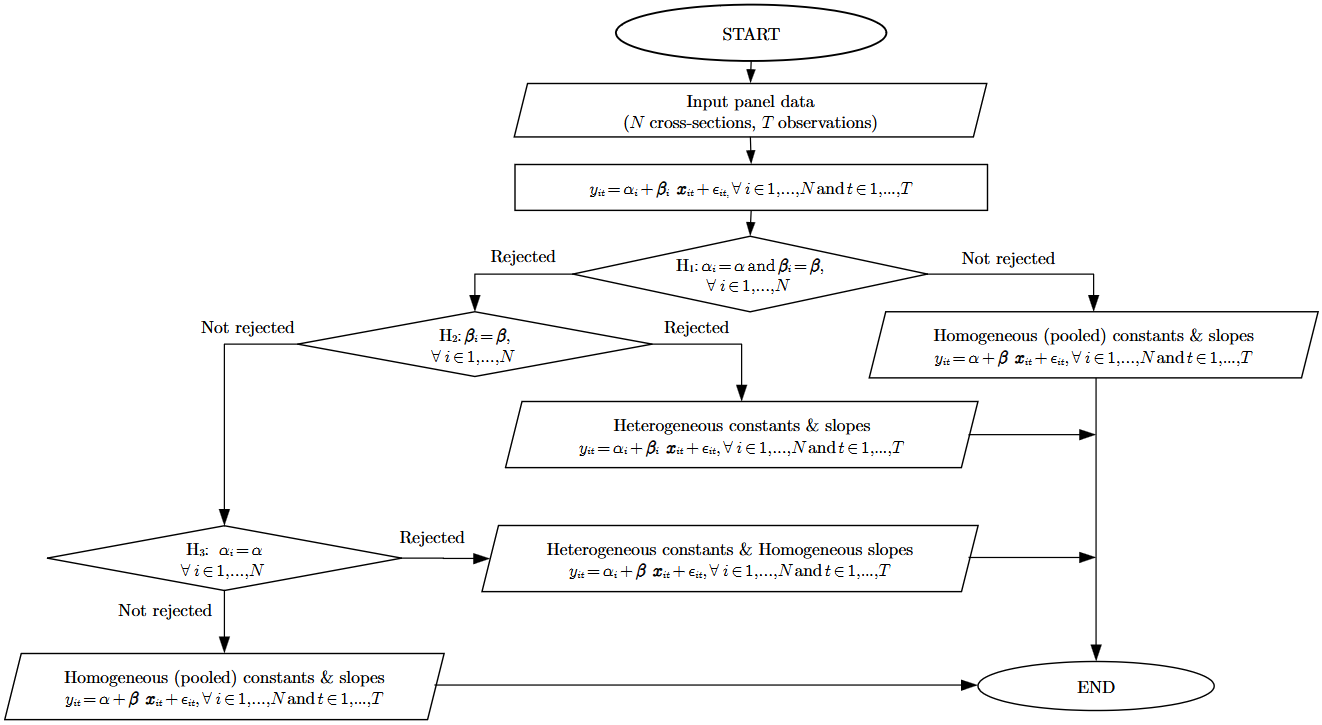
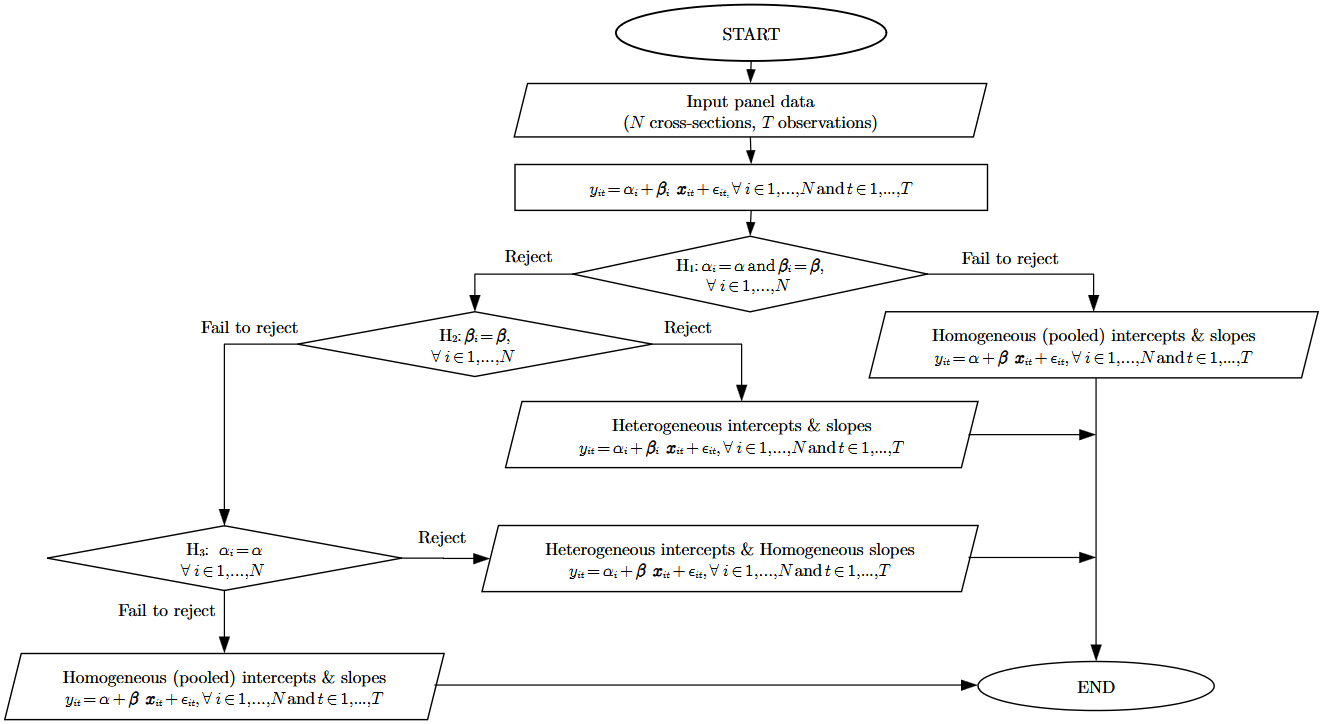
Update text

diff --git a/docs/index.html b/docs/index.html
@@ -46,8 +46,8 @@
 <div class="row">
   <main id="main" class="col-md-9">
 <div class="section level1">
-<div class="page-header"><h1 id="hsiao-poolability-test-1986-in-r">
-<strong>Hsiao Poolability test (<a href="#ref-hsiao1986">1986</a>) in R</strong><a class="anchor" aria-label="anchor" href="#hsiao-poolability-test-1986-in-r"></a>
+<div class="page-header"><h1 id="hsiao-poolability-test-19862022-in-r">
+<strong>Hsiao Poolability test (<a href="#ref-hsiao1986">1986</a>;<a href="#ref-hsiao2022">2022</a>) in R</strong><a class="anchor" aria-label="anchor" href="#hsiao-poolability-test-19862022-in-r"></a>
 </h1></div>
 <div class="section level2">
 <h2 id="install">
@@ -75,11 +75,11 @@ class="uri">10.32614/CRAN.package.corbouli</a></p>
 <h2 id="hsiao-poolability-test">
 <strong>Hsiao Poolability test</strong><a class="anchor" aria-label="anchor" href="#hsiao-poolability-test"></a>
 </h2>
-<p>The Hsiao poolability/homogeneity test (Hsiao, <a href="#ref-hsiao1986">1986</a>; <a href="#ref-hsiao2022">2022</a>) for panel data is used to determine the homogeneity of coefficients across individuals in panel data. The test is comprised from three consecutive hypotheses. The hypothesis that slope and intercept coefficients are the same across the panel is initially tested. If this hypothesis is not rejected, then the total homogeneity (pool) of both slopes and intercepts is concluded. If the first hypothesis is rejected, the second hypothesis tests the homogeneity of the slope coefficients. If this second hypothesis is rejected, different slope coefficients for all individuals are indicated, suggesting total heterogeneity. If this hypothesis is not rejected, then homogeneity of slope coefficients is implied. If this second hypothesis is not rejected, then the the third hypothesis tests the homogeneity of the intercept (constant) coefficients across individuals is performed. If this last hypothesis is not rejected, then total homogeneity is resulted. If this last hypothesis is rejected, equal slopes but different intercepts across individuals are indicated. The current implementation is derived from Hsiao (<a href="#ref-hsiao2022">2022</a>). This procedure is capitulated in Figure <a href="#ref-Figure1">1</a> and Table <a href="#ref-table1">1</a>.</p>
+<p>The Hsiao poolability/homogeneity test (Hsiao <a href="#ref-hsiao1986">1986</a>; <a href="#ref-hsiao2022">2022</a>) for panel data is used to determine the homogeneity of coefficients across individuals in panel data. The test is composed of three consecutive hypotheses. The hypothesis that slope and intercept (constant) coefficients are the same across the panel is initially tested. If this hypothesis is not rejected, then the total homogeneity (pool) of both slopes and intercepts is concluded. If the first hypothesis is rejected, the second hypothesis tests the homogeneity of the slope coefficients. If this second hypothesis is rejected, different slope coefficients for all individuals are indicated, suggesting total heterogeneity. If this hypothesis is not rejected, then homogeneity of slope coefficients is implied. If this second hypothesis is not rejected, then the the third hypothesis tests the homogeneity of the intercept coefficients across individuals is performed. If this last hypothesis is not rejected, then total homogeneity is resulted. If this last hypothesis is rejected, equal slopes but different intercepts across individuals are indicated. The current implementation is derived from Hsiao (<a href="#ref-hsiao2022">2022</a>). This procedure is capitulated in Figure <a href="#ref-Figure1">1</a> and Table <a href="#ref-table1">1</a>.</p>
 <p align="center">
-<img src="articles/figure1.png" alt="Fig. 1: Hsiao tests' Hypothesis testing flow chart." width="100%"></p>
+<img src="articles/figure1.png" alt="Fig. 1: Hsiao homogeneity hypothesis testing flow chart." width="100%"></p>
 <p class="caption" align="center">
-<span id="ref-Figure1"></span> Fig. 1: Hsiao tests’ Hypothesis testing flow chart.
+<span id="ref-Figure1"></span> Fig. 1: Hsiao homogeneity hypothesis testing flow chart.
 </p>
 <table style="width: 368px; vertical-align: middle;
 text-align: center; margin-left: auto; margin-right: auto;" border="1" align="center" class="table"><tbody>
@@ -96,40 +96,40 @@ text-align: center; margin-left: auto; margin-right: auto;" border="1" align="ce
 </tr>
 <tr style="height: 26px;" align="center">
 <td style="width: 136.65px; height: 26px;" align="center">
- <b>H1</b>
+ <b>H<sub>1</sub></b>
 </td>
 <td style="width: 136.65px; height: 26px;" align="center">
 Pooled
 </td>
 <td style="width: 186.65px; height: 26px;" align="center">
-H2
+H<sub>2</sub>
 </td>
 </tr>
 <tr style="height: 26px;" align="center">
 <td style="width: 176.65px; height: 26px;" align="center">
- <b>H2</b>
+ <b>H<sub>2</sub></b>
 </td>
 <td style="width: 136.65px; height: 26px;" align="center">
-H3
+H<sub>3</sub>
 </td>
 <td style="width: 186.65px; height: 26px;" align="center">
-Heterogeneous intercept &amp; slope
+Heterogeneous intercepts &amp; slopes
 </td>
 </tr>
 <tr style="height: 26px;" align="center">
 <td style="width: 136.65px; height: 26px;" align="center">
- <b>H3</b>
+ <b>H<sub>3</sub></b>
 </td>
 <td style="width: 136.65px; height: 26px;" align="center">
 Pooled
 </td>
 <td style="width: 186.65px; height: 26px;" align="center">
-Heterogeneous intercept &amp; Homogeneous slope
+Heterogeneous intercepts &amp; Homogeneous slopes
 </td>
 </tr>
 </tbody></table>
 <p align="center">
-<span id="ref-table1" class="nocase"> Table 1: Hsiao Hypothesis testing. </span>
+<span id="ref-table1" class="nocase"> Table 1: Hsiao homogeneity hypothesis testing table. </span>
 </p>
 </div>
 <div class="section level2">
@@ -145,7 +145,7 @@ Heterogeneous intercept &amp; Homogeneous slope
 <span><span class="co"># Import "Gasoline" dataset</span></span>
 <span><span class="fu"><a href="https://rdrr.io/r/utils/data.html" class="external-link">data</a></span><span class="op">(</span><span class="st">"Gasoline"</span>, package <span class="op">=</span> <span class="st">"plm"</span><span class="op">)</span></span>
 <span></span>
-<span><span class="co"># Print first 6 elements</span></span>
+<span><span class="co"># Print first 6 rows</span></span>
 <span><span class="fu"><a href="https://rdrr.io/r/utils/head.html" class="external-link">head</a></span><span class="op">(</span><span class="va">Gasoline</span><span class="op">)</span></span></code></pre></div>
 <pre><code><span><span class="co">##   country year lgaspcar  lincomep      lrpmg  lcarpcap</span></span>
 <span><span class="co">## 1 AUSTRIA 1960 4.173244 -6.474277 -0.3345476 -9.766840</span></span>
@@ -154,20 +154,20 @@ Heterogeneous intercept &amp; Homogeneous slope
 <span><span class="co">## 4 AUSTRIA 1963 4.059509 -6.370679 -0.4142514 -9.343155</span></span>
 <span><span class="co">## 5 AUSTRIA 1964 4.037689 -6.322247 -0.4453354 -9.237739</span></span>
 <span><span class="co">## 6 AUSTRIA 1965 4.033983 -6.294668 -0.4970607 -9.123903</span></span></code></pre>
-<p>A <code>pdata.frame</code> or a <code>data.frame</code> object is expected as and a formula are required as input for the <code>hsiao</code> function. Note that <code>data.frame</code> object input should be able to be transformed as <code>pdata.frame</code> object and <code>index</code> input can be used as well. For more about <code>pdata.frame</code> see at <code><a href="https://rdrr.io/pkg/plm/man/pdata.frame.html" class="external-link">plm::pdata.frame</a></code></p>
+<p>A <code>pdata.frame</code> or a <code>data.frame</code> object is expected as and a formula are required as minimum essential input for the <code>hsiao</code> function. Note that <code>data.frame</code> object input should be able to be transformed as <code>pdata.frame</code> object and <code>index</code> input can be used as well. For more about <code>pdata.frame</code> see at <code><a href="https://rdrr.io/pkg/plm/man/pdata.frame.html" class="external-link">plm::pdata.frame</a></code>.</p>
 <div class="sourceCode" id="cb4"><pre class="downlit sourceCode r">
 <code class="sourceCode R"><span><span class="co"># Hsiao hypothesis testing</span></span>
 <span><span class="va">x</span> <span class="op">&lt;-</span> <span class="fu"><a href="reference/hsiao.html">hsiao</a></span><span class="op">(</span><span class="va">lgaspcar</span> <span class="op">~</span> <span class="va">lincomep</span> <span class="op">+</span> <span class="va">lrpmg</span> <span class="op">+</span> <span class="va">lcarpcap</span>, <span class="va">Gasoline</span><span class="op">)</span></span>
 <span><span class="fu"><a href="https://rdrr.io/r/base/print.html" class="external-link">print</a></span><span class="op">(</span><span class="va">x</span><span class="op">)</span></span></code></pre></div>
 <pre><code><span><span class="co">##</span></span>
-<span><span class="co">##                   Hsiao Homogeneity Test</span></span>
+<span><span class="co">##                     Hsiao Homogeneity Test</span></span>
 <span><span class="co">##</span></span>
 <span><span class="co">## Hypothesis| Null |                Alternative</span></span>
-<span><span class="co">## ----------+------+-------------------------------------------</span></span>
+<span><span class="co">## ----------+------+---------------------------------------------</span></span>
 <span><span class="co">##     H1    |Pooled|                    H2</span></span>
-<span><span class="co">##     H2    |  H3  |      Heterogeneous intercept &amp; slope</span></span>
-<span><span class="co">##     H3    |Pooled|Heterogeneous intercept &amp; Homogeneous slope</span></span>
-<span><span class="co">## =============================================================</span></span>
+<span><span class="co">##     H2    |  H3  |      Heterogeneous intercepts &amp; slopes</span></span>
+<span><span class="co">##     H3    |Pooled|Heterogeneous intercepts &amp; Homogeneous slopes</span></span>
+<span><span class="co">## ===============================================================</span></span>
 <span><span class="co">##</span></span>
 <span><span class="co">## formula: lgaspcar ~ lincomep + lrpmg + lcarpcap</span></span>
 <span><span class="co">##</span></span>
@@ -175,13 +175,13 @@ Heterogeneous intercept &amp; Homogeneous slope
 <span><span class="co">##   1     H1       129.3166     &lt; 0.001</span></span>
 <span><span class="co">##   2     H2        27.3352     &lt; 0.001</span></span>
 <span><span class="co">##   3     H3        83.9608     &lt; 0.001</span></span></code></pre>
-<p>According to this result, the coefficients of the given countries have both heterogeneous intercept &amp; slope. In detail, the first hypothesis, <span class="math inline">\(H_1\)</span>, is rejected in 1% statistical significance level, indicating strong evidence against the <span class="math inline">\(H_1\)</span>. Then, the second hypothesis, <span class="math inline">\(H_2\)</span> is tested and rejected as well in 1% statistical significance level. This is the end of the testing and so there is strong evidence that both intercept and slope are heterogeneous.</p>
+<p>According to this result, the coefficients of the given countries have both heterogeneous intercept &amp; slope. In detail, the first hypothesis, <span class="math inline">\(H_1\)</span>, is rejected in 1% statistical significance level, indicating strong evidence against the <span class="math inline">\(H_1\)</span>. Then, the second hypothesis, <span class="math inline">\(H_2\)</span>, is tested and rejected as well in 1% statistical significance level. This is the end of the testing and so there is strong evidence that both intercept and slope are heterogeneous.</p>
 </div>
 <div class="section level2">
 <h2 id="references">
 <strong>References</strong><a class="anchor" aria-label="anchor" href="#references"></a>
 </h2>
-<p><span class="nocase" id="ref-hsiao1986"> Hsiao, C. (1986) <em>Analysis of Panel Data</em>. 1st edn. Cambridge: Cambridge University Press (Econometric Society Monographs).</span></p>
+<p><span class="nocase" id="ref-hsiao1986"> Hsiao, C. (1986) <em>Analysis of Panel Data</em>. 1st edn. Cambridge: Cambridge University Press (Econometric Society Monographs).<br></span></p>
 <p><span class="nocase" id="ref-hsiao2022"> Hsiao, C. (2022) <em>Analysis of Panel Data</em>. 4th edn. Cambridge: Cambridge University Press (Econometric Society Monographs), pp. 43-49. doi:<a href="https://doi.org/10.1017/9781009057745" class="external-link">10.1017/9781009057745</a></span></p>
 </div>
 </div>

diff --git a/docs/articles/Introduction.html b/docs/articles/Introduction.html
@@ -60,9 +60,8 @@ Adam</h4>
     
     
 <div class="section level2">
-<h2 id="hsiao-poolability-test-1986-in-r">
-<strong>Hsiao Poolability test (<a href="#ref-hsiao1986">1986</a>)
-in R</strong><a class="anchor" aria-label="anchor" href="#hsiao-poolability-test-1986-in-r"></a>
+<h2 id="hsiao-poolability-test-19862022-in-r">
+<strong>Hsiao Poolability test (<a href="#ref-hsiao1986">1986</a>;<a href="#ref-hsiao2022">2022</a>) in R</strong><a class="anchor" aria-label="anchor" href="#hsiao-poolability-test-19862022-in-r"></a>
 </h2>
 <div class="section level3">
 <h3 id="hsiao-poolability-test">
@@ -70,28 +69,27 @@ in R</strong><a class="anchor" aria-label="anchor" href="#hsiao-poolability-test
 </h3>
 <p>The Hsiao poolability/homogeneity test (Hsiao <a href="#ref-hsiao1986">1986</a>; <a href="#ref-hsiao2022">2022</a>) for
 panel data is used to determine the homogeneity of coefficients across
-individuals in panel data. The test is comprised from three consecutive
-hypotheses. The hypothesis that slope and intercept coefficients are the
-same across the panel is initially tested. If this hypothesis is not
-rejected, then the total homogeneity (pool) of both slopes and
-intercepts is concluded. If the first hypothesis is rejected, the second
-hypothesis tests the homogeneity of the slope coefficients. If this
-second hypothesis is rejected, different slope coefficients for all
-individuals are indicated, suggesting total heterogeneity. If this
+individuals in panel data. The test is composed of three consecutive
+hypotheses. The hypothesis that slope and intercept (constant)
+coefficients are the same across the panel is initially tested. If this
+hypothesis is not rejected, then the total homogeneity (pool) of both
+slopes and intercepts is concluded. If the first hypothesis is rejected,
+the second hypothesis tests the homogeneity of the slope coefficients.
+If this second hypothesis is rejected, different slope coefficients for
+all individuals are indicated, suggesting total heterogeneity. If this
 hypothesis is not rejected, then homogeneity of slope coefficients is
 implied. If this second hypothesis is not rejected, then the the third
-hypothesis tests the homogeneity of the intercept (constant)
-coefficients across individuals is performed. If this last hypothesis is
-not rejected, then total homogeneity is resulted. If this last
-hypothesis is rejected, equal slopes but different intercepts across
-individuals are indicated. The current implementation is derived from
-Hsiao (<a href="#ref-hsiao2022">2022</a>). This procedure is capitulated
-in Figure <a href="#ref-Figure1">1</a> and Table <a href="#ref-table1">1</a>.</p>
+hypothesis tests the homogeneity of the intercept coefficients across
+individuals is performed. If this last hypothesis is not rejected, then
+total homogeneity is resulted. If this last hypothesis is rejected,
+equal slopes but different intercepts across individuals are indicated.
+The current implementation is derived from Hsiao (<a href="#ref-hsiao2022">2022</a>). This procedure is capitulated in Figure
+<a href="#ref-Figure1">1</a> and Table <a href="#ref-table1">1</a>.</p>
 <p align="center">
-<img src="figure1.png" alt="Fig. 1: Hsiao tests' Hypothesis testing flow chart." width="100%"></p>
+<img src="figure1.png" alt="Fig. 1: Hsiao homogeneity hypothesis testing flow chart." width="100%"></p>
 <p class="caption" align="center">
-<span id="ref-Figure1"></span> Fig. 1: Hsiao tests’ Hypothesis testing
-flow chart.
+<span id="ref-Figure1"></span> Fig. 1: Hsiao homogeneity hypothesis
+testing flow chart.
 </p>
 <table style="width: 368px; vertical-align: middle;
 text-align: center; margin-left: auto; margin-right: auto;" border="1" align="center" class="table"><tbody>
@@ -108,41 +106,41 @@ text-align: center; margin-left: auto; margin-right: auto;" border="1" align="ce
 </tr>
 <tr style="height: 26px;" align="center">
 <td style="width: 136.65px; height: 26px;" align="center">
- <b>H1</b>
+ <b>H<sub>1</sub></b>
 </td>
 <td style="width: 136.65px; height: 26px;" align="center">
 Pooled
 </td>
 <td style="width: 186.65px; height: 26px;" align="center">
-H2
+H<sub>2</sub>
 </td>
 </tr>
 <tr style="height: 26px;" align="center">
 <td style="width: 176.65px; height: 26px;" align="center">
- <b>H2</b>
+ <b>H<sub>2</sub></b>
 </td>
 <td style="width: 136.65px; height: 26px;" align="center">
-H3
+H<sub>3</sub>
 </td>
 <td style="width: 186.65px; height: 26px;" align="center">
-Heterogeneous intercept &amp; slope
+Heterogeneous intercepts &amp; slopes
 </td>
 </tr>
 <tr style="height: 26px;" align="center">
 <td style="width: 136.65px; height: 26px;" align="center">
- <b>H3</b>
+ <b>H<sub>3</sub></b>
 </td>
 <td style="width: 136.65px; height: 26px;" align="center">
 Pooled
 </td>
 <td style="width: 186.65px; height: 26px;" align="center">
-Heterogeneous intercept &amp; Homogeneous slope
+Heterogeneous intercepts &amp; Homogeneous slopes
 </td>
 </tr>
 </tbody></table>
 <p align="center">
-<span id="ref-table1" class="nocase"> Table 1: Hsiao Hypothesis testing.
-</span>
+<span id="ref-table1" class="nocase"> Table 1: Hsiao homogeneity
+hypothesis testing table. </span>
 </p>
 </div>
 <div class="section level3">
@@ -159,7 +157,7 @@ package will be used.</p>
 <span><span class="co"># Import "Gasoline" dataset</span></span>
 <span><span class="fu"><a href="https://rdrr.io/r/utils/data.html" class="external-link">data</a></span><span class="op">(</span><span class="st">"Gasoline"</span>, package <span class="op">=</span> <span class="st">"plm"</span><span class="op">)</span></span>
 <span></span>
-<span><span class="co"># Print first 6 elements</span></span>
+<span><span class="co"># Print first 6 rows</span></span>
 <span><span class="fu"><a href="https://rdrr.io/r/utils/head.html" class="external-link">head</a></span><span class="op">(</span><span class="va">Gasoline</span><span class="op">)</span></span></code></pre></div>
 <pre><code><span><span class="co">##   country year lgaspcar  lincomep      lrpmg  lcarpcap</span></span>
 <span><span class="co">## 1 AUSTRIA 1960 4.173244 -6.474277 -0.3345476 -9.766840</span></span>
@@ -169,24 +167,25 @@ package will be used.</p>
 <span><span class="co">## 5 AUSTRIA 1964 4.037689 -6.322247 -0.4453354 -9.237739</span></span>
 <span><span class="co">## 6 AUSTRIA 1965 4.033983 -6.294668 -0.4970607 -9.123903</span></span></code></pre>
 <p>A <code>pdata.frame</code> or a <code>data.frame</code> object is
-expected as and a formula are required as input for the
-<code>hsiao</code> function. Note that <code>data.frame</code> object
-input should be able to be transformed as <code>pdata.frame</code>
-object and <code>index</code> input can be used as well. For more about
-<code>pdata.frame</code> see at <code><a href="https://rdrr.io/pkg/plm/man/pdata.frame.html" class="external-link">plm::pdata.frame</a></code></p>
+expected as and a formula are required as minimum essential input for
+the <code>hsiao</code> function. Note that <code>data.frame</code>
+object input should be able to be transformed as
+<code>pdata.frame</code> object and <code>index</code> input can be used
+as well. For more about <code>pdata.frame</code> see at
+<code><a href="https://rdrr.io/pkg/plm/man/pdata.frame.html" class="external-link">plm::pdata.frame</a></code>.</p>
 <div class="sourceCode" id="cb3"><pre class="downlit sourceCode r">
 <code class="sourceCode R"><span><span class="co"># Hsiao hypothesis testing</span></span>
 <span><span class="va">x</span> <span class="op">&lt;-</span> <span class="fu"><a href="../reference/hsiao.html">hsiao</a></span><span class="op">(</span><span class="va">lgaspcar</span> <span class="op">~</span> <span class="va">lincomep</span> <span class="op">+</span> <span class="va">lrpmg</span> <span class="op">+</span> <span class="va">lcarpcap</span>, <span class="va">Gasoline</span><span class="op">)</span></span>
 <span><span class="fu"><a href="https://rdrr.io/r/base/print.html" class="external-link">print</a></span><span class="op">(</span><span class="va">x</span><span class="op">)</span></span></code></pre></div>
 <pre><code><span><span class="co">##</span></span>
-<span><span class="co">##                   Hsiao Homogeneity Test</span></span>
+<span><span class="co">##                     Hsiao Homogeneity Test</span></span>
 <span><span class="co">##</span></span>
 <span><span class="co">## Hypothesis| Null |                Alternative</span></span>
-<span><span class="co">## ----------+------+-------------------------------------------</span></span>
+<span><span class="co">## ----------+------+---------------------------------------------</span></span>
 <span><span class="co">##     H1    |Pooled|                    H2</span></span>
-<span><span class="co">##     H2    |  H3  |      Heterogeneous intercept &amp; slope</span></span>
-<span><span class="co">##     H3    |Pooled|Heterogeneous intercept &amp; Homogeneous slope</span></span>
-<span><span class="co">## =============================================================</span></span>
+<span><span class="co">##     H2    |  H3  |      Heterogeneous intercepts &amp; slopes</span></span>
+<span><span class="co">##     H3    |Pooled|Heterogeneous intercepts &amp; Homogeneous slopes</span></span>
+<span><span class="co">## ===============================================================</span></span>
 <span><span class="co">##</span></span>
 <span><span class="co">## formula: lgaspcar ~ lincomep + lrpmg + lcarpcap</span></span>
 <span><span class="co">##</span></span>
@@ -199,7 +198,7 @@ have both heterogeneous intercept &amp; slope. In detail, the first
 hypothesis, <span class="math inline">\(H_1\)</span>, is rejected in 1%
 statistical significance level, indicating strong evidence against the
 <span class="math inline">\(H_1\)</span>. Then, the second hypothesis,
-<span class="math inline">\(H_2\)</span> is tested and rejected as well
+<span class="math inline">\(H_2\)</span>, is tested and rejected as well
 in 1% statistical significance level. This is the end of the testing and
 so there is strong evidence that both intercept and slope are
 heterogeneous.</p>
@@ -210,7 +209,7 @@ heterogeneous.</p>
 </h3>
 <p><span class="nocase" id="ref-hsiao1986"> Hsiao, C. (1986)
 <em>Analysis of Panel Data</em>. 1st edn. Cambridge: Cambridge
-University Press (Econometric Society Monographs).</span></p>
+University Press (Econometric Society Monographs).<br></span></p>
 <p><span class="nocase" id="ref-hsiao2022"> Hsiao, C. (2022)
 <em>Analysis of Panel Data</em>. 4th edn. Cambridge: Cambridge
 University Press (Econometric Society Monographs), pp. 43-49.

diff --git a/docs/reference/hsiao.html b/docs/reference/hsiao.html
@@ -93,14 +93,14 @@ University Press (Econometric Society Monographs), pp. 43-49.</p>
 <span class="r-in"><span><span class="va">x</span> <span class="op">&lt;-</span> <span class="fu">hsiao</span><span class="op">(</span><span class="va">lgaspcar</span> <span class="op">~</span> <span class="va">lincomep</span> <span class="op">+</span> <span class="va">lrpmg</span> <span class="op">+</span> <span class="va">lcarpcap</span>, <span class="va">Gasoline</span><span class="op">)</span></span></span>
 <span class="r-in"><span><span class="fu"><a href="https://rdrr.io/r/base/print.html" class="external-link">print</a></span><span class="op">(</span><span class="va">x</span><span class="op">)</span></span></span>
 <span class="r-out co"><span class="r-pr">#&gt;</span>    </span>
-<span class="r-out co"><span class="r-pr">#&gt;</span>                   Hsiao Homogeneity Test</span>
+<span class="r-out co"><span class="r-pr">#&gt;</span>                     Hsiao Homogeneity Test</span>
 <span class="r-out co"><span class="r-pr">#&gt;</span> </span>
-<span class="r-out co"><span class="r-pr">#&gt;</span> Hypothesis| Null |                Alternative                </span>
-<span class="r-out co"><span class="r-pr">#&gt;</span> ----------+------+-------------------------------------------</span>
-<span class="r-out co"><span class="r-pr">#&gt;</span>     H1    |Pooled|                    H2                     </span>
-<span class="r-out co"><span class="r-pr">#&gt;</span>     H2    |  H3  |      Heterogeneous intercept &amp; slope      </span>
-<span class="r-out co"><span class="r-pr">#&gt;</span>     H3    |Pooled|Heterogeneous intercept &amp; Homogeneous slope</span>
-<span class="r-out co"><span class="r-pr">#&gt;</span> =============================================================</span>
+<span class="r-out co"><span class="r-pr">#&gt;</span> Hypothesis| Null |                 Alternative                 </span>
+<span class="r-out co"><span class="r-pr">#&gt;</span> ----------+------+---------------------------------------------</span>
+<span class="r-out co"><span class="r-pr">#&gt;</span>     H1    |Pooled|                    H2                       </span>
+<span class="r-out co"><span class="r-pr">#&gt;</span>     H2    |  H3  |      Heterogeneous intercepts &amp; slopes      </span>
+<span class="r-out co"><span class="r-pr">#&gt;</span>     H3    |Pooled|Heterogeneous intercepts &amp; Homogeneous slopes</span>
+<span class="r-out co"><span class="r-pr">#&gt;</span> ===============================================================</span>
 <span class="r-out co"><span class="r-pr">#&gt;</span> </span>
 <span class="r-out co"><span class="r-pr">#&gt;</span> formula: lgaspcar ~ lincomep + lrpmg + lcarpcap</span>
 <span class="r-out co"><span class="r-pr">#&gt;</span> </span>

diff --git a/README.md b/README.md
@@ -5,7 +5,7 @@
 [![Codecov test coverage](https://codecov.io/gh/cadam00/poobly/graph/badge.svg)](https://app.codecov.io/gh/cadam00/poobly)
 <!-- badges: end -->
 
-# **Hsiao Poolability test ([1986](#ref-hsiao1986)) in R**
+# **Hsiao Poolability test ([1986](#ref-hsiao1986);[2022](#ref-hsiao2022)) in R**
 
 ## **Install**
 
@@ -83,7 +83,7 @@ align="center">
                                                                        </b></td>
 <td style="width: 136.65px; height: 26px;" align="center">H<sub>3</sub></td>
 <td style="width: 186.65px; height: 26px;" align="center">
-                                            Heterogeneous intercept & slope</td>
+                                          Heterogeneous intercepts & slopes</td>
 </tr>
 </tr>
 <tr style="height: 26px;" align="center">
@@ -91,7 +91,7 @@ align="center">
                                                                        </b></td>
 <td style="width: 136.65px; height: 26px;" align="center">Pooled</td>
 <td style="width: 186.65px; height: 26px;" align="center">
-                                Heterogeneous intercept & Homogeneous slope</td>
+                              Heterogeneous intercepts & Homogeneous slopes</td>
 </tr>
 </tbody>
 </table>
@@ -141,14 +141,14 @@ print(x)
 ```
 ```
 ##
-##                   Hsiao Homogeneity Test
+##                     Hsiao Homogeneity Test
 ##
 ## Hypothesis| Null |                Alternative
-## ----------+------+-------------------------------------------
+## ----------+------+---------------------------------------------
 ##     H1    |Pooled|                    H2
-##     H2    |  H3  |      Heterogeneous intercept & slope
-##     H3    |Pooled|Heterogeneous intercept & Homogeneous slope
-## =============================================================
+##     H2    |  H3  |      Heterogeneous intercepts & slopes
+##     H3    |Pooled|Heterogeneous intercepts & Homogeneous slopes
+## ===============================================================
 ##
 ## formula: lgaspcar ~ lincomep + lrpmg + lcarpcap
 ##
